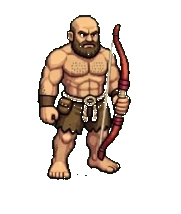
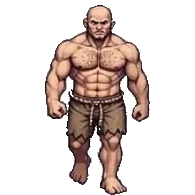
BUILD 401 - new down/front view barbarian model
Replaces the old front-view art with the user's new bald-barbarian
down/front sprite sheet (gray background, baked shadow removed via
edge flood-fill + enclosed low-saturation cleanup). New keyed frames:
down_idle_0 (neutral stance), down_walk_0/1 (opposite strides),
normalized to 195x195 feet-anchored canvases (head top y=7, h=188).
Applied to bare/blue/sword/bow; down attacks use idle art.
BARB_BOX down entries for all 4 variants: head [97,7], idleH 188.
Sim 43,460 passed; vite build ok.

diff --git a/index.html b/index.html
@@ -1,1 +1,1 @@
-<!doctype html><html lang="en"><head><!-- BUILD309-VIEWPORT-FIX-MARKER --><meta charset="UTF-8"><meta name="viewport" content="width=device-width, initial-scale=1.0, maximum-scale=1.0, user-scalable=no"><meta name="theme-color" content="#17362e"><link rel="icon" type="image/svg+xml" href="favicon.svg"><meta name="description" content="Explore Mosslight Crossing in the Adventure Game field journal."><title>Adventure Game — Mosslight Crossing</title></head><body><div id="root"></div><script>window.__AG_BUILD="400";(function(){var shown=false;function code(m){var h=0,s=window.__AG_BUILD+"|"+m;for(var i=0;i<s.length;i++){h=(Math.imul(h,31)+s.charCodeAt(i))|0;}return "AG"+window.__AG_BUILD+"-"+(h>>>0).toString(36).toUpperCase().padStart(6,"0").slice(-5);}function show(m,k){if(shown||window.__agBooted)return;shown=true;var d=document.createElement("div");d.id="ag-boot-crash";var p=document.createElement("div");p.className="ag-boot-panel";var t=document.createElement("div");t.className="ag-boot-title";t.textContent="\u26a0 GAME FAILED TO START";var c=document.createElement("div");c.className="ag-boot-code";c.textContent=code(String(m));var g=document.createElement("div");g.className="ag-boot-msg";g.textContent=String(m).slice(0,300);var n=document.createElement("div");n.className="ag-boot-kind";n.textContent=k;var b=document.createElement("button");b.textContent="Reload game";b.onclick=function(){location.reload();};p.appendChild(t);p.appendChild(c);p.appendChild(g);p.appendChild(n);p.appendChild(b);d.appendChild(p);document.body.appendChild(d);}window.addEventListener("error",function(e){if(e.target&&e.target!==window)return;show(e.message||"script error","boot error");},true);window.addEventListener("unhandledrejection",function(e){var r=e.reason;show((r&&(r.message||r))||"rejection","boot rejection");});setTimeout(function(){if(!window.__agBooted)show("The game did not finish loading in time.","load timeout");},20000);})();</script><style>#ag-boot-crash{position:fixed;inset:0;z-index:99999;background:#0d1a16;display:flex;align-items:center;justify-content:center;padding:24px}#ag-boot-crash .ag-boot-panel{max-width:420px;width:100%;background:#14261f;border:1px solid #2c4a3e;border-radius:12px;padding:24px;text-align:center;color:#e8f0e9;font-family:system-ui,sans-serif}#ag-boot-crash .ag-boot-title{font-size:20px;font-weight:800;letter-spacing:.5px}#ag-boot-crash .ag-boot-code{font-family:monospace;font-size:22px;color:#ffd75e;margin:12px 0;letter-spacing:1px}#ag-boot-crash .ag-boot-msg{font-size:13px;color:#b9c9bd;word-break:break-word}#ag-boot-crash .ag-boot-kind{font-size:11px;color:#7d8f83;margin-top:8px;text-transform:uppercase;letter-spacing:1px}#ag-boot-crash button{margin-top:16px;background:#e8a33d;border:0;border-radius:8px;padding:10px 22px;font-size:15px;font-weight:700;color:#231603;cursor:pointer}</style><script type="module" src="/src/main.tsx"></script></body></html>
+<!doctype html><html lang="en"><head><!-- BUILD309-VIEWPORT-FIX-MARKER --><meta charset="UTF-8"><meta name="viewport" content="width=device-width, initial-scale=1.0, maximum-scale=1.0, user-scalable=no"><meta name="theme-color" content="#17362e"><link rel="icon" type="image/svg+xml" href="favicon.svg"><meta name="description" content="Explore Mosslight Crossing in the Adventure Game field journal."><title>Adventure Game — Mosslight Crossing</title></head><body><div id="root"></div><script>window.__AG_BUILD="401";(function(){var shown=false;function code(m){var h=0,s=window.__AG_BUILD+"|"+m;for(var i=0;i<s.length;i++){h=(Math.imul(h,31)+s.charCodeAt(i))|0;}return "AG"+window.__AG_BUILD+"-"+(h>>>0).toString(36).toUpperCase().padStart(6,"0").slice(-5);}function show(m,k){if(shown||window.__agBooted)return;shown=true;var d=document.createElement("div");d.id="ag-boot-crash";var p=document.createElement("div");p.className="ag-boot-panel";var t=document.createElement("div");t.className="ag-boot-title";t.textContent="\u26a0 GAME FAILED TO START";var c=document.createElement("div");c.className="ag-boot-code";c.textContent=code(String(m));var g=document.createElement("div");g.className="ag-boot-msg";g.textContent=String(m).slice(0,300);var n=document.createElement("div");n.className="ag-boot-kind";n.textContent=k;var b=document.createElement("button");b.textContent="Reload game";b.onclick=function(){location.reload();};p.appendChild(t);p.appendChild(c);p.appendChild(g);p.appendChild(n);p.appendChild(b);d.appendChild(p);document.body.appendChild(d);}window.addEventListener("error",function(e){if(e.target&&e.target!==window)return;show(e.message||"script error","boot error");},true);window.addEventListener("unhandledrejection",function(e){var r=e.reason;show((r&&(r.message||r))||"rejection","boot rejection");});setTimeout(function(){if(!window.__agBooted)show("The game did not finish loading in time.","load timeout");},20000);})();</script><style>#ag-boot-crash{position:fixed;inset:0;z-index:99999;background:#0d1a16;display:flex;align-items:center;justify-content:center;padding:24px}#ag-boot-crash .ag-boot-panel{max-width:420px;width:100%;background:#14261f;border:1px solid #2c4a3e;border-radius:12px;padding:24px;text-align:center;color:#e8f0e9;font-family:system-ui,sans-serif}#ag-boot-crash .ag-boot-title{font-size:20px;font-weight:800;letter-spacing:.5px}#ag-boot-crash .ag-boot-code{font-family:monospace;font-size:22px;color:#ffd75e;margin:12px 0;letter-spacing:1px}#ag-boot-crash .ag-boot-msg{font-size:13px;color:#b9c9bd;word-break:break-word}#ag-boot-crash .ag-boot-kind{font-size:11px;color:#7d8f83;margin-top:8px;text-transform:uppercase;letter-spacing:1px}#ag-boot-crash button{margin-top:16px;background:#e8a33d;border:0;border-radius:8px;padding:10px 22px;font-size:15px;font-weight:700;color:#231603;cursor:pointer}</style><script type="module" src="/src/main.tsx"></script></body></html>

diff --git a/src/game/iso/barbarian.ts b/src/game/iso/barbarian.ts
@@ -70,24 +70,24 @@ export const BARB_FRAMES: Record<string, Record<string, Record<string, string[]>
 };
 export const BARB_BOX: Record<string, Record<string, {w:number;h:number;head:[number,number];idleH:number}>> = {
   bare: {
-    down: { w: 195, h: 195, head: [97, 4], idleH: 188 },
+    down: { w: 195, h: 195, head: [97, 7], idleH: 188 },
     side: { w: 195, h: 195, head: [104, 9], idleH: 186 },
     right: { w: 195, h: 195, head: [104, 9], idleH: 186 },
     left: { w: 195, h: 195, head: [93, 9], idleH: 186 },
     up: { w: 195, h: 195, head: [97, 2], idleH: 193 },
   },
   blue: {
-    down: { w: 153, h: 188, head: [69, 3], idleH: 180 },
+    down: { w: 195, h: 195, head: [97, 7], idleH: 188 },
     side: { w: 195, h: 195, head: [104, 9], idleH: 186 },
     up: { w: 195, h: 195, head: [97, 2], idleH: 193 },
   },
   sword: {
-    down: { w: 195, h: 194, head: [92, 8], idleH: 177 },
+    down: { w: 195, h: 195, head: [97, 7], idleH: 188 },
     side: { w: 195, h: 195, head: [104, 9], idleH: 186 },
     up: { w: 195, h: 195, head: [97, 2], idleH: 193 },
   },
   bow: {
-    down: { w: 181, h: 214, head: [81, 15], idleH: 164 },
+    down: { w: 195, h: 195, head: [97, 7], idleH: 188 },
     side: { w: 195, h: 195, head: [104, 9], idleH: 186 },
     up: { w: 195, h: 195, head: [97, 2], idleH: 193 },
   },
